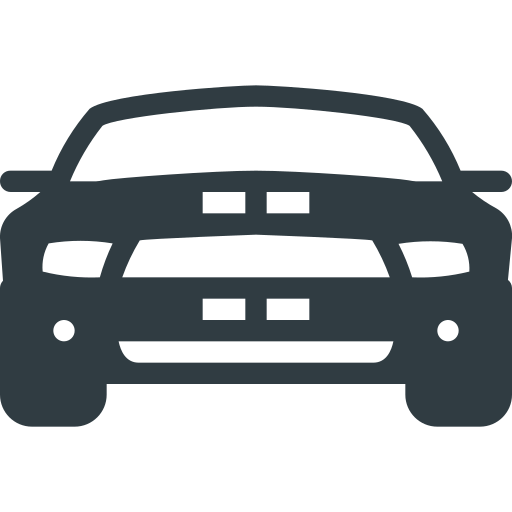
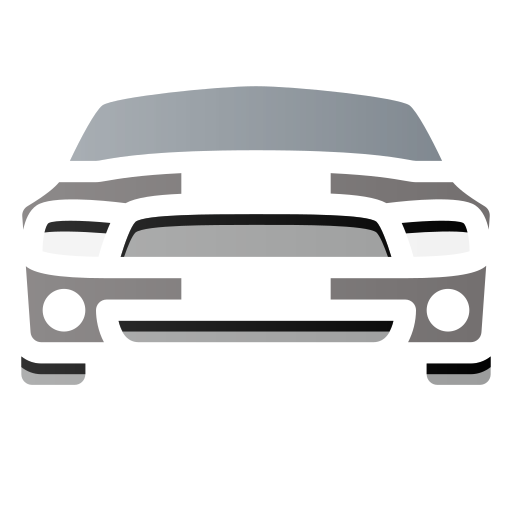
add

diff --git a/index.html b/index.html
@@ -8,7 +8,7 @@
     <link rel="preconnect" href="https://fonts.gstatic.com" crossorigin />
     <link href="https://fonts.googleapis.com/css2?family=Inter:opsz,wght@14..32,300;14..32,400;14..32,600;14..32,700&family=Playfair+Display:wght@500;700;900&display=swap" rel="stylesheet" />
     <link rel="stylesheet" href="https://cdnjs.cloudflare.com/ajax/libs/font-awesome/6.0.0-beta3/css/all.min.css" />
-    <link rel="icon" href="./icons/car.png" type="image/png" />
+    <link rel="icon" href="./icons/car.png" type="image/png" background="white" />
 
     <style>
         /* ===== RESET & BASE ===== */